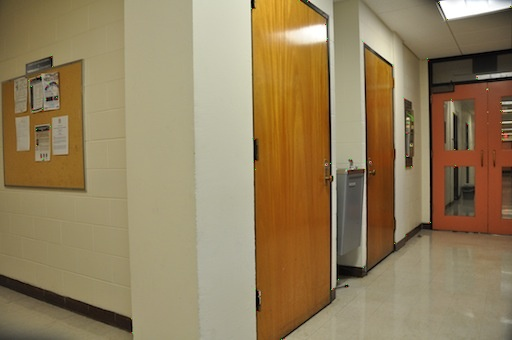
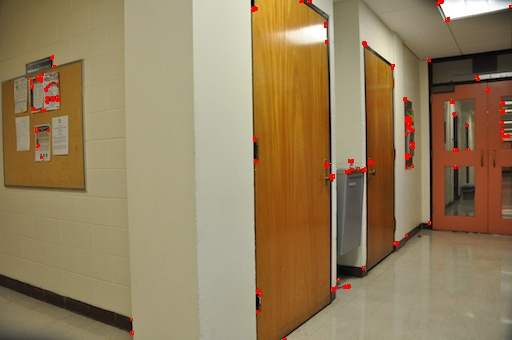
corner detection and max suppresion

diff --git a/mosaic.py b/mosaic.py
@@ -1,66 +1,200 @@
 # Computer Vision, Project 2
 # Vanessa Hadlock, Stav Rones
 
-
 import numpy as np
+from numpy.fft import fft2, ifft2
 import cv2
 import matplotlib.pyplot as plt
+import math
 
 
-def cornerDetection(img):
+def gradient(img):
+
+    img = np.float32(img)
+
+    I_dx = cv2.Sobel(img, cv2.CV_32F, 1, 0, ksize=5)
+    I_dy = cv2.Sobel(img, cv2.CV_32F, 0, 1, ksize=5)
+    
+    # Determine M = [Ixx Ixy ; Ixy Iyy] performing element-wise multiplication
+    I_xx = np.square(I_dx)
+    I_yy = np.square(I_dy)
+    I_xy = np.multiply(I_dx, I_dy)
+
+    # # Calculate determinant
+    # det = I_xx * I_yy - (I_xy ** 2)
+
+    # # Calculate trace (alpha = 0.04 to 0.06)
+    # alpha = 0.04
+    # trace = alpha * (I_xx + I_yy) ** 2
+
+    # # Using determinant and trace, calculate corner response function
+    # R = det - trace
+
+    # cornerList = cv2.harrisCorners(img, height, width, Ixx, Iyy, Ixy, k, offset, threshold)
+
+    # Display corner response function
+    # f, ax1 = plt.subplots(1, 1, figsize=(20,10))
+
+    # ax1.set_title('Corner response fuction')
+    # ax1.imshow(R, cmap="gray")
+    return I_xx, I_yy, I_xy
+
+
+def nonMaxSupression(cornerList, windowsize):
+
+    #Sort in decreasing order
+
+    cornerList.sort(reverse=True)
+    
+    #Mark unwanted neighbors based on Window Size
+    for i in cornerList:
+        index = []
+        if i[3] != 1:
+            for j in cornerList:
+                if j[3] != 1:
+                    dist = math.sqrt((j[1] - i[1])**2 + (j[2] - i[2])**2)
+                    if (dist <= windowsize and dist > 0):
+                        j[3] = 1
+    
+    #Filter out neighbors
+    final = filter(lambda x: x[3] == 0, cornerList)   
+    
+    return list(final)
+
+
+def cornerDetection(img, alpha, windowsize, threshold):
+    
+    plot_img = cv2.cvtColor(img, cv2.COLOR_BGR2GRAY)
+
+    height = img.shape[0]
+    width = img.shape[1]
+    
+    # Calculate window offset
+    if windowsize % 2 == 0:
+        windowsize += 1
+    offset = windowsize//2
+    
+    # Compute the gradient
+    I_xx, I_yy, I_xy = gradient(img)
+
+    cornerList = harrisCorners(height, width, I_xx, I_yy, I_xy, alpha, offset, threshold) 
+    corners = nonMaxSupression(cornerList, windowsize) 
         
-    gray = cv2.cvtColor(img, cv2.COLOR_BGR2GRAY)
-
-    # find Harris corners
-    gray = np.float32(gray)
-    dst = cv2.cornerHarris(gray,2,3,0.04)
-    dst = cv2.dilate(dst,None)
-    ret, dst = cv2.threshold(dst,0.01*dst.max(),255,0)
-    dst = np.uint8(dst)
-
-    # find centroids
-    ret, labels, stats, centroids = cv2.connectedComponentsWithStats(dst)
-
-    # define the criteria to stop and refine the corners
-    criteria = (cv2.TERM_CRITERIA_EPS + cv2.TERM_CRITERIA_MAX_ITER, 100, 0.001)
-    corners = cv2.cornerSubPix(gray,np.float32(centroids),(5,5),(-1,-1),criteria)
-
-    # Now draw them
-    res = np.hstack((centroids,corners))
-    res = np.int0(res)
-    img[res[:,1],res[:,0]]=[0,0,255]
-    img[res[:,3],res[:,2]] = [0,255,0]
-
-    return img
+    return corners
 
 
+# Harris Corner Detector
+def harrisCorners(height, width, Ixx, Iyy, Ixy, alpha, offset, threshold):
 
+    cornerList = []
+    
+    #Scan T-B, L-R
+    for y in range(offset, height-offset):
+        for x in range(offset, width-offset):
+            
+            #Get windows
+            Wxx = Ixx[y-offset:y+offset+1, x-offset:x+offset+1]
+            Wyy = Iyy[y-offset:y+offset+1, x-offset:x+offset+1]
+            Wxy = Ixy[y-offset:y+offset+1, x-offset:x+offset+1]
+            
+            #Calculate sum of squares
+            Sxx = Wxx.sum()                
+            Syy = Wyy.sum()    
+            Sxy = Wxy.sum()                
+            
+            #Calculate determinant, trace, and cornerness
+            det = (Sxx * Syy) - (Sxy**2)
+            trace = Sxx + Syy
+            g = det - alpha*(trace**2)
+            
+            #If cornerness > threshold, add to corner list
+            if g > threshold:
+                cornerList.append([g, x, y, 0])               
+                
+    return cornerList
+
+    
+# def corner(img):
+        
+#     gray = cv2.cvtColor(img, cv2.COLOR_BGR2GRAY)
+
+#     # find Harris corners
+
+#     # convert gray image into floating point numbers in order
+#     # to put it into the Harris Corner Detector 
+#     gray = np.float32(gray)
+
+#     # run grayscale float32 image through corner detector
+#     # blockSize = 2, ksize = 3, k = 0.04 
+#     dst = cv2.cornerHarris(gray, 2, 3, 0.04)
+    
+#     # print(dst)
+
+#     #result is dilated for marking the corners
+#     dst = cv2.dilate(dst,None)
+
+#     # Threshold for an optimal value, it may vary depending on the image.
+#     ret, dst = cv2.threshold(dst,0.01*dst.max(),255,0)
+
+#     img[dst>0.01*dst.max()]=[0,0,255]
+
+#     cv2.imshow('dst', img)
+
+#     if cv2.waitKey(0) & 0xff == 27:
+#         cv2.destroyAllWindows()
+
+#     # Conver the image back into 8 bit integers
+#     dst = np.uint8(dst)
+
+#     # find centroids
+#     ret, labels, stats, centroids = cv2.connectedComponentsWithStats(dst)
+
+#     # define the criteria to stop and refine the corners
+#     criteria = (cv2.TERM_CRITERIA_EPS + cv2.TERM_CRITERIA_MAX_ITER, 100, 0.001)
+#     corners = cv2.cornerSubPix(gray,np.float32(centroids),(5,5),(-1,-1),criteria)
+
+#     # Now draw the corners onto the image 
+#     res = np.hstack((centroids,corners))
+#     res = np.int0(res)
+#     img[res[:,1],res[:,0]]=[0,0,255]
+#     img[res[:,3],res[:,2]] = [0,255,0]
+
+#     return img
 
 def main(): 
+
+    # constant between 0.04 - 0.06
+    alpha = 0.04
+    windowSize = 5
+    threshold = 2000
 
     # read in first image
     img1: np.ndarray = cv2.imread('DanaHallWay1/DSC_0281.jpg') 
     # cv2.imwrite('DanaHallWay1/DSC_0281_grayscale.jpg', img1)
+    
     # perform Harris Corner Detection on the first image
-    corner1 = cornerDetection(img1)
-    cv2.imwrite('DanaHallWay1/DSC_0281_corner.jpg', corner1)
+    # corner1 = corner(img1)
+    # cv2.imwrite('DanaHallWay1/DSC_0281_corner.jpg', corner1)
 
-
+    corners = cornerDetection(img1, alpha, windowSize, threshold)
+     
+    # cv2.show(gmax1)
 
     # read in second image
     img2: np.ndarray = cv2.imread('DanaHallWay1/DSC_0282.jpg') 
+    
     # cv2.imwrite('DanaHallWay1/DSC_0282_grayscale.jpg', img2)
     # perform Harris Corner Detection on the second image
-    corner2 = cornerDetection(img2)
-    cv2.imwrite('DanaHallWay1/DSC_0282_corner.jpg', corner2)
+    # corner2 = cornerDetection(img2)
+    # cv2.imwrite('DanaHallWay1/DSC_0282_corner.jpg', corner2)
 
+    corners = cornerDetection(img2, alpha, windowSize, threshold)    
 
     # read in third image as a grayscale
     # img3: np.ndarray = cv2.imread('DanaHallWay1/DSC_0283.jpg', cv2.IMREAD_GRAYSCALE) 
     # cv2.imwrite('DanaHallWay1/DSC_0283_grayscale.jpg', img3)
     # cornerDetection(img3)
     # cv2.imwrite('DanaHallWay1/DSC_0282_grayscale.jpg', img2)
-
 
 
 
